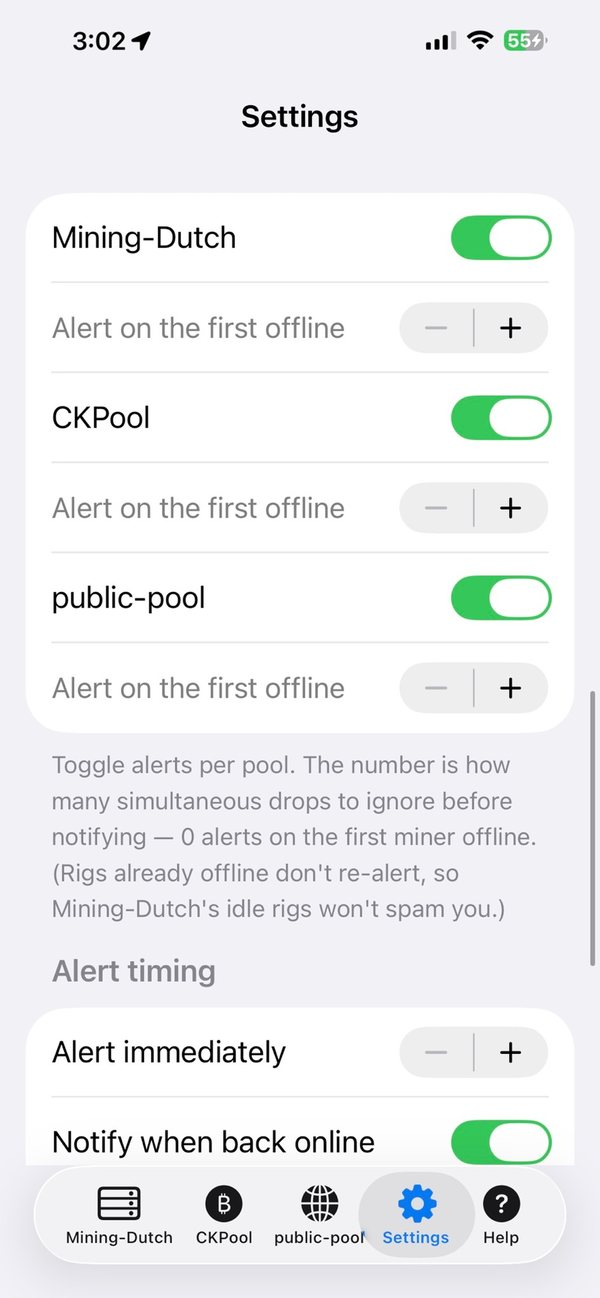
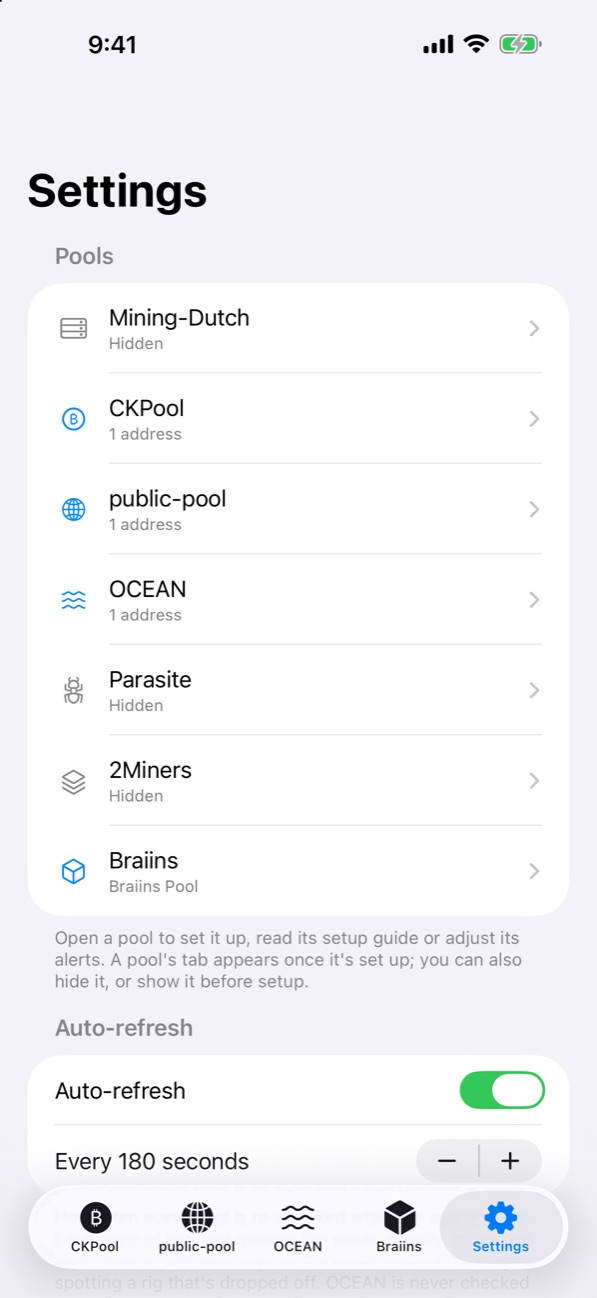
Add 2.0 pool screenshots to promo page
Adds OCEAN, Parasite, 2Miners and Braiins screenshots with captions,
and replaces the Settings shot with one listing every 2.0 pool.

diff --git a/index.html b/index.html
@@ -235,13 +235,13 @@ footer a{color:var(--muted)}
 <section id="screens" data-shots style="padding-bottom:40px"><div class="wrap">
 <div class="sec-h" style="display:flex;align-items:flex-end;gap:20px;max-width:none;flex-wrap:wrap"><div style="max-width:720px"><div class="kicker">Screenshots</div><h2>See PoolMonitor in action</h2><p>Tap any screenshot to enlarge.</p></div>
 <div class="galnav"><button aria-label="Previous" onclick="document.getElementById('gal').scrollBy({left:-600,behavior:'smooth'})">&#8249;</button><button aria-label="Next" onclick="document.getElementById('gal').scrollBy({left:600,behavior:'smooth'})">&#8250;</button></div></div>
-<div class="gal" id="gal"><figure><img src="screenshots/01-mining-dutch-miners.jpg" alt="Mining-Dutch: your hashrate trend, coins mining now and every worker&#x27;s status" loading="lazy"><figcaption>Mining-Dutch: your hashrate trend, coins mining now and every worker&#x27;s status</figcaption></figure><figure><img src="screenshots/02-wallet.jpg" alt="Wallet: balance per coin and total portfolio value" loading="lazy"><figcaption>Wallet: balance per coin and total portfolio value</figcaption></figure><figure><img src="screenshots/03-blocks.jpg" alt="Blocks: blocks found and rewards over 1, 7 or 30 days" loading="lazy"><figcaption>Blocks: blocks found and rewards over 1, 7 or 30 days</figcaption></figure><figure><img src="screenshots/04-ckpool.jpg" alt="CKPool solo: hashrate averages, best share, closest-to-a-block and every worker" loading="lazy"><figcaption>CKPool solo: hashrate averages, best share, closest-to-a-block and every worker</figcaption></figure><figure><img src="screenshots/05-public-pool.jpg" alt="public-pool: workers, best difficulty and closest to a block" loading="lazy"><figcaption>public-pool: workers, best difficulty and closest to a block</figcaption></figure><figure><img src="screenshots/06-settings.jpg" alt="Settings: per-pool switches, offline alert thresholds and alert timing" loading="lazy"><figcaption>Settings: per-pool switches, offline alert thresholds and alert timing</figcaption></figure><figure><img src="screenshots/07-help.jpg" alt="Built-in guides walk you through getting a read-only API key" loading="lazy"><figcaption>Built-in guides walk you through getting a read-only API key</figcaption></figure></div></div></section>
+<div class="gal" id="gal"><figure><img src="screenshots/01-mining-dutch-miners.jpg" alt="Mining-Dutch: your hashrate trend, coins mining now and every worker&#x27;s status" loading="lazy"><figcaption>Mining-Dutch: your hashrate trend, coins mining now and every worker&#x27;s status</figcaption></figure><figure><img src="screenshots/02-wallet.jpg" alt="Wallet: balance per coin and total portfolio value" loading="lazy"><figcaption>Wallet: balance per coin and total portfolio value</figcaption></figure><figure><img src="screenshots/03-blocks.jpg" alt="Blocks: blocks found and rewards over 1, 7 or 30 days" loading="lazy"><figcaption>Blocks: blocks found and rewards over 1, 7 or 30 days</figcaption></figure><figure><img src="screenshots/04-ckpool.jpg" alt="CKPool solo: hashrate averages, best share, closest-to-a-block and every worker" loading="lazy"><figcaption>CKPool solo: hashrate averages, best share, closest-to-a-block and every worker</figcaption></figure><figure><img src="screenshots/05-public-pool.jpg" alt="public-pool: workers, best difficulty and closest to a block" loading="lazy"><figcaption>public-pool: workers, best difficulty and closest to a block</figcaption></figure><figure><img src="screenshots/06-settings.jpg" alt="Settings: every pool in one list, each with its own setup guide and alerts" loading="lazy"><figcaption>Settings: every pool in one list, each with its own setup guide and alerts</figcaption></figure><figure><img src="screenshots/07-help.jpg" alt="Built-in guides walk you through getting a read-only API key" loading="lazy"><figcaption>Built-in guides walk you through getting a read-only API key</figcaption></figure><figure><img src="screenshots/08-ocean.jpg" alt="OCEAN: hashrate, unpaid balance, next-block estimate and on-chain payouts" loading="lazy"><figcaption>OCEAN: hashrate, unpaid balance, next-block estimate and on-chain payouts</figcaption></figure><figure><img src="screenshots/09-parasite.jpg" alt="Parasite: round rank, best difficulty and closest to a block" loading="lazy"><figcaption>Parasite: round rank, best difficulty and closest to a block</figcaption></figure><figure><img src="screenshots/10-2miners.jpg" alt="2Miners: balance and payout progress for every coin and wallet" loading="lazy"><figcaption>2Miners: balance and payout progress for every coin and wallet</figcaption></figure><figure><img src="screenshots/11-braiins.jpg" alt="Braiins Pool: hashrate, balance, rewards and low-hashrate warnings" loading="lazy"><figcaption>Braiins Pool: hashrate, balance, rewards and low-hashrate warnings</figcaption></figure></div></div></section>
 <div class="lb" id="lb" onclick="this.classList.remove('on')"><img alt=""></div>
 <script>
 (function(){
   // Auto-loads every image in this repo's /screenshots folder (sorted by file name).
   // Add, remove or rename files there - no HTML edits needed. Captions come from CAPS, else from the file name.
-  var REPO="shiftingeden/PoolMonitor", CAPS={"01-mining-dutch-miners.jpg": "Mining-Dutch: your hashrate trend, coins mining now and every worker's status", "02-wallet.jpg": "Wallet: balance per coin and total portfolio value", "03-blocks.jpg": "Blocks: blocks found and rewards over 1, 7 or 30 days", "04-ckpool.jpg": "CKPool solo: hashrate averages, best share, closest-to-a-block and every worker", "05-public-pool.jpg": "public-pool: workers, best difficulty and closest to a block", "06-settings.jpg": "Settings: per-pool switches, offline alert thresholds and alert timing", "07-help.jpg": "Built-in guides walk you through getting a read-only API key"};
+  var REPO="shiftingeden/PoolMonitor", CAPS={"01-mining-dutch-miners.jpg": "Mining-Dutch: your hashrate trend, coins mining now and every worker's status", "02-wallet.jpg": "Wallet: balance per coin and total portfolio value", "03-blocks.jpg": "Blocks: blocks found and rewards over 1, 7 or 30 days", "04-ckpool.jpg": "CKPool solo: hashrate averages, best share, closest-to-a-block and every worker", "05-public-pool.jpg": "public-pool: workers, best difficulty and closest to a block", "06-settings.jpg": "Settings: every pool in one list, each with its own setup guide and alerts", "07-help.jpg": "Built-in guides walk you through getting a read-only API key", "08-ocean.jpg": "OCEAN: hashrate, unpaid balance, next-block estimate and on-chain payouts", "09-parasite.jpg": "Parasite: round rank, best difficulty and closest to a block", "10-2miners.jpg": "2Miners: balance and payout progress for every coin and wallet", "11-braiins.jpg": "Braiins Pool: hashrate, balance, rewards and low-hashrate warnings"};
   var sec=document.querySelector("[data-shots]"), gal=document.getElementById("gal"), lb=document.getElementById("lb");
   function cap(n){ if(CAPS[n]) return CAPS[n]; var t=n.replace(/\.[^.]+$/,"").replace(/^[0-9]+[-_ ]*/,"").replace(/[-_]+/g," ").trim(); return t? t.charAt(0).toUpperCase()+t.slice(1) : ""; }
   function wire(){ gal.querySelectorAll("img").forEach(function(i){ i.onclick=function(){ lb.querySelector("img").src=i.src; lb.querySelector("img").alt=i.alt; lb.classList.add("on"); }; }); }
